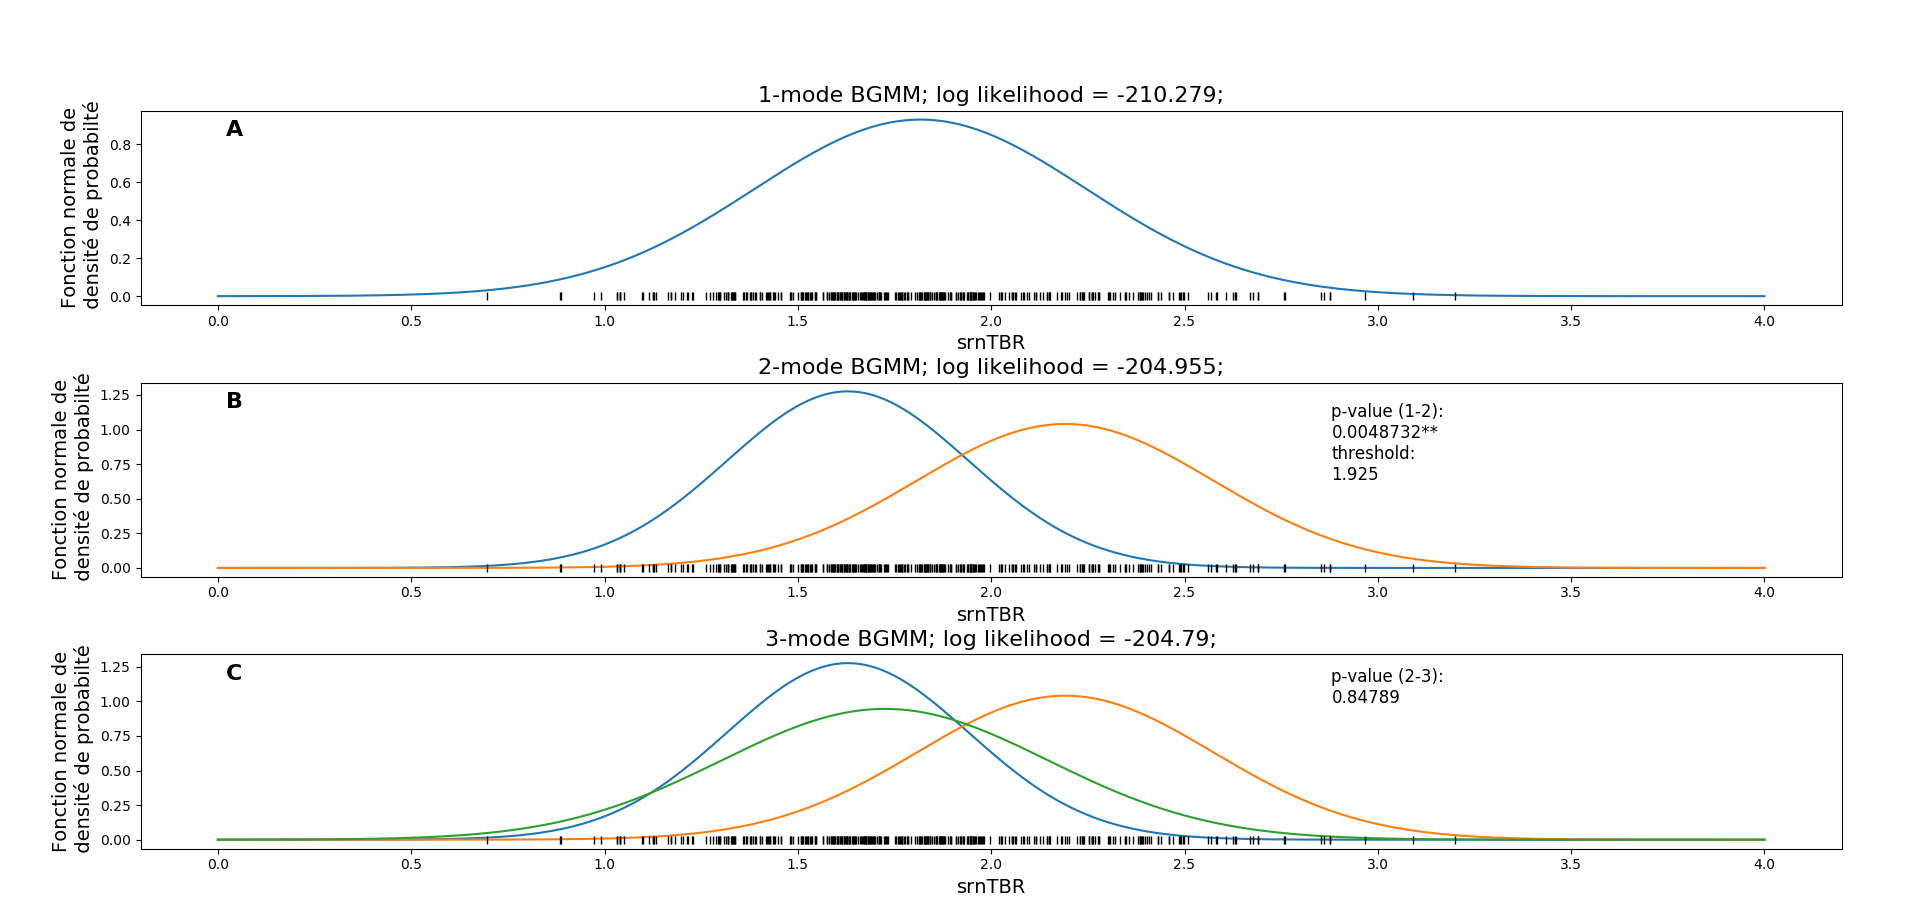
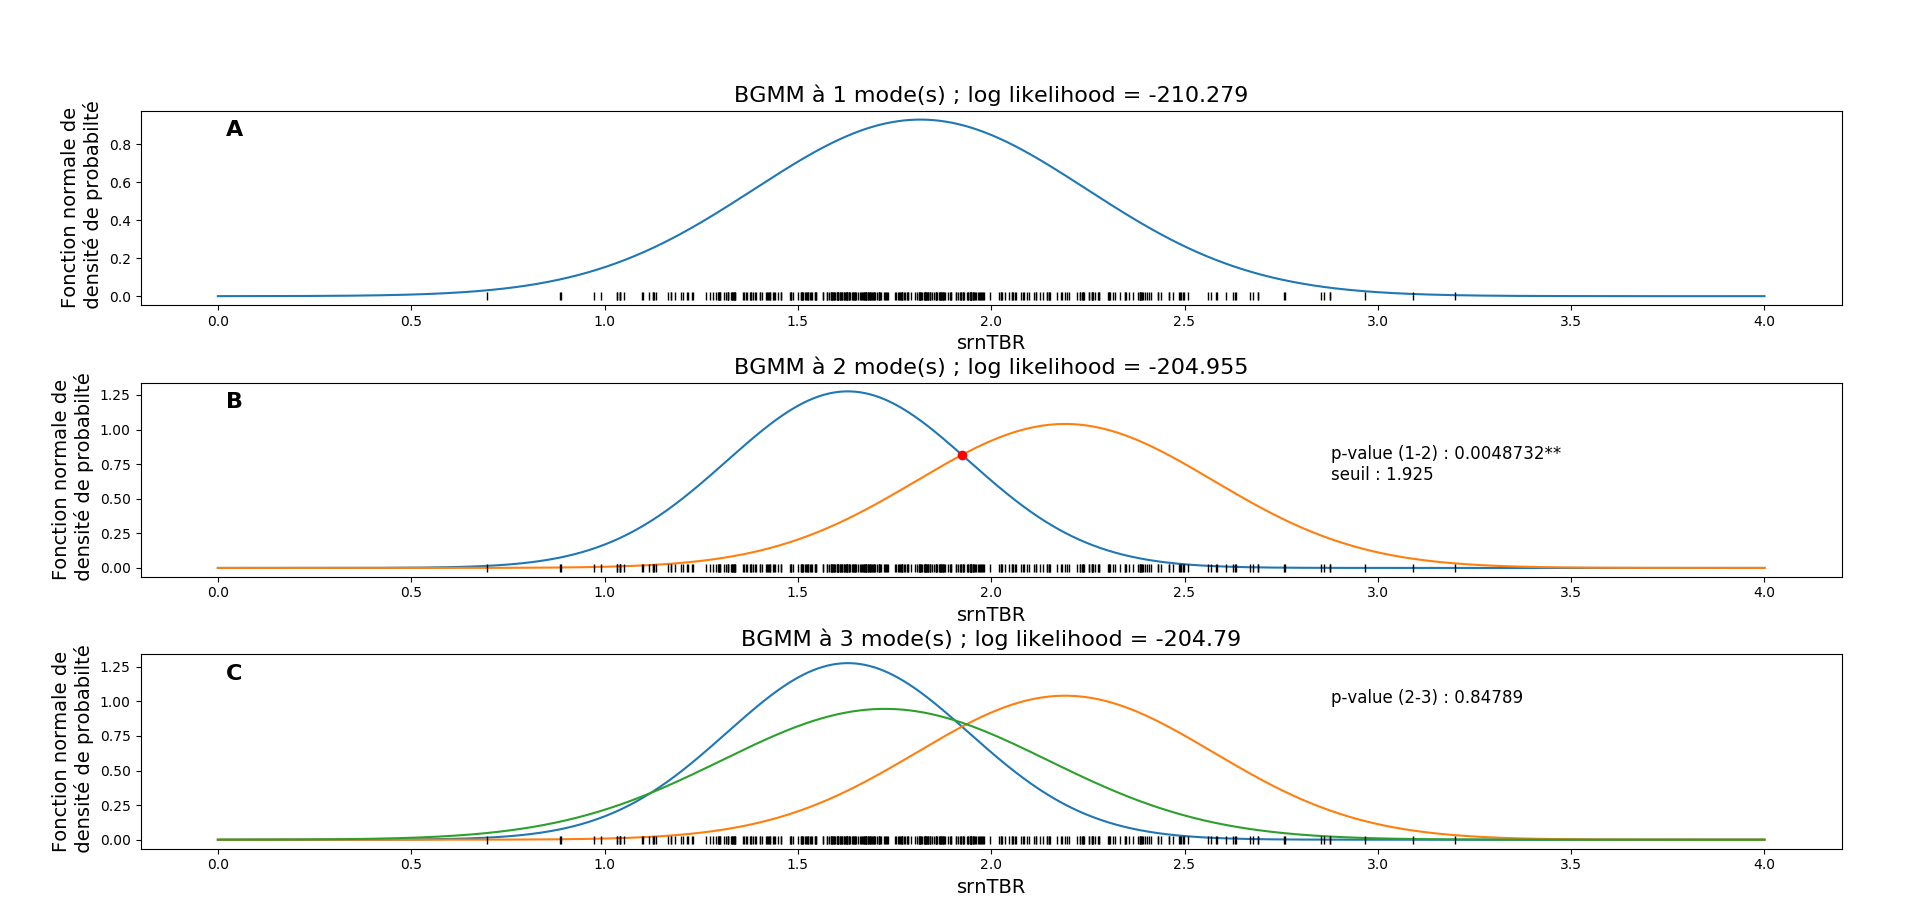
more details given in methods an beginning of results

diff --git a/chapter_4.tex b/chapter_4.tex
@@ -233,18 +233,18 @@ les densités \gls{dbscan}. Les analyses statistiques sont effectuées avec la b
 \subsubsection{Partitionnement basé sur les distributions : Bayesian Gaussian Mixture Model} 
 Un \textit{mixture model} est un modèle probabiliste qui permet d'identifier la présence de sous-populations dans une population.
 La distribution des \glspl{srntbr} est ainsi tracée et ajustée par un \gls{bgmm} \citep{Attias2000, Blei2006} puis par 
-un \gls{gmm}. Un \textit{Gaussian Mixture Model} est un modèle probabiliste qui suppose que toutes les observations proviennent d'un mélange 
+un \gls{gmm} pour comparaison. Un \textit{Gaussian Mixture Model} est un modèle qui suppose que toutes les observations proviennent d'un mélange 
 d'un nombre fini de distributions gaussiennes aux paramètres inconnus. 
 Le \gls{bgmm}, à la différence du \gls{gmm}, utilise des \textit{a priori} sur la distribution des données pour 
 assigner des probabilités \textit{a posteriori} à chaque \textit{Gaussian Mixture} distribution. Un grand nombre de \glspl{tbr} 
 extraits de sujets sains de la base de données \gls{cmi-hbn} est disponible, ces valeurs donc utilisées pour estimer les \textit{a priori} du \gls{bgmm}. 
 Lorsque les observations sont ajustées par un \gls{bgmm} ou un \gls{gmm}, un modèle gaussien constitué d'un nombre prédéfini de courbes gaussiennes est 
-créé pour modéliser les données. Les valeurs de \gls{srntbr} sont approximées par un \gls{bgmm} avec un nombre croissant de composantes. Il en va de même 
-pour l'utilisation du \gls{gmm}.
+créé pour modéliser les données. Ici, les valeurs de \gls{srntbr} sont approximées par un \gls{bgmm} avec un nombre de composantes allant de 1 à 3. 
+Il en va de même pour l'utilisation du \gls{gmm}.
 
 Afin de déterminer le nombre de composantes qui décrit le mieux la distribution des \gls{srntbr}, la significativité de la différence entre chaque 
-modèle est testée grâce à un test $\chi^2$ sur la déviance \citep{James2013}. La déviance est une mesure de la qualité de l'ajustement (\textit{goodness-of-fit} en anglais) 
-d'un modèle statistique et est définie comme suit :
+modèle est testée grâce à un test $\chi^2$ sur la déviance \citep{James2013}. La déviance est une mesure de la qualité de l'ajustement (\textit{goodness-of-fit} 
+en anglais) d'un modèle statistique et est définie comme suit :
 \begin{equation}
 \label{eq:tbr_deviance}
 \text{D} = -2(log(L(\beta_{0})) - log(L(\beta_{\alpha}))),
@@ -255,34 +255,43 @@ La multiplication par -2 est une étape nécessaire pour convertir la \textit{lo
 l'utilisation d'un test $\chi^2$ pour tester la significativité statistique. Le seuil de significativité est fixé à $\alpha = 0.01$.
 
 \subsubsection{Partitionnement basé sur les distances : méthode de Ward}
-La méthode de Ward fait partie des algorithmes de partitionnement hiérarchique \citep{Ward1963}. Cet algorithme est un type d'\textit{agglomerative clustering} 
-qui, de façon récursive, fusionne une paire de groupes en minimisant la variance de ces \textit{clusters}.
+La méthode de Ward fait partie des algorithmes de partitionnement hiérarchique \citep{Ward1963}. 
+Cet algorithme est un type d'\textit{agglomerative clustering} qui, de façon récursive, fusionne une paire de groupes 
+en minimisant la variance de ces \textit{clusters} jusqu'à obtenir un grand \textit{cluster} comprenant toutes les données.
 
-Afin de déterminer le nombre de \textit{clusters} à trouver par le \textit{clustering} de Ward, un dendogramme basé sur la distance de Ward est tracé. 
-Sur ce graphique, une fois que la plus longue distance (représentée par les traits verticaux) non coupée par une ligne horizontale est repérée, une ligne 
-horizontale est tracée de façon à couper cette ligne verticale. Le nombre de lignes verticales coupées par la ligne horizontale tout juste tracée correspond 
-au nombre optimal de groupes.
+Le nombre K de clusters estimé par Ward varie de 1 à 3 pour comparer les résultats obtenus à ceux du \gls{bgmm}. Les \textit{clusters}
+identifiés par la méthode Ward sont notamment représentés sur un dendrogramme où les traits verticaux correspondent à la distance de Ward entre 
+deux \textit{clusters} : plus ces traits sont grands, plus les clusters son différents
 
 \subsubsection{Partitionnement basé sur les densités : DBSCAN}
-\gls{dbscan} est un algorithme de partitionnement de données qui s'appuie sur la densité des \textit{clusters} estimés \citep{Ester1996}. Deux paramètres sont entrés dans l'algorithme :
-la distance $\epsilon$ et le nombre minimum de points $MinPts$ devant se trouver dans un rayon $\epsilon$ pour que ces points forment un \textit{cluster}. 
-Le choix du $MinPts$ peut se faire en suivant une une méthode heuristique :
+\gls{dbscan} est un algorithme de partitionnement de données qui s'appuie sur la densité des \textit{clusters} estimés \citep{Ester1996}. 
+Deux paramètres sont nécessaires pour permettre à l'algorithme de partitionner la donnée : la distance $\epsilon$ et le nombre minimum de points 
+$MinPts$ devant se trouver dans un rayon $\epsilon$ pour que ces points forment un \textit{cluster}. 
+Le choix du $MinPts$ peut se faire grâce une méthode heuristique :
 \begin{equation}
 \label{eq:tbr_dbscan}
 MinPts = ln(n),
 \end{equation}
 avec n le nombre total de points à être partitionnés.
 
-Une méthode pour déterminer la valeur $\epsilon$ optimale est de tracer le \textit{k-distance plot} obtenu par la méthode des k plus proches voisins 
-(\textit{K-nearest neighbors} en anglais) en prenant $k = MinPts$ \citep{James2013, Goldberger2005}. Etant donné que les points bruités 
-sont censés avoir une \textit{k-distance} bien plus élevée que celle des autres points, on peut s'attendre à observer un genou sur ce tracé : 
-alors l'ordonnée de ce point correspond à $\epsilon$.
+Une méthode pour déterminer la valeur $\epsilon$ optimale est de tracer le graphique des \textit{k-distance} obtenu par la méthode des k plus proches voisins 
+(\textit{K-nearest neighbors} en anglais) non supervisée en prenant $k = MinPts$ \citep{James2013, Goldberger2005}. Le principe de cette méthode
+est de trouver un nombre prédéfini d'observations, noté k, les plus proches en distance d'un nouveau point et de prédire la classe de ce dernier. 
+Le grahique des \textit{k-distance} représente les distances de chaque observation à un des k points classées par ordre décroissant. 
+Ainsi, les points bruités sont censés avoir une \textit{k-distance} bien plus élevée que celle des autres points, on peut 
+s'attendre à observer un genou sur ce tracé : l'ordonnée de ce point correspond à $\epsilon$.
+
 
 \subsection{Identification du seuil optimal pour la personnalisation du protocole de Neurofeedback}
+
 Si le \gls{bgmm} à deux composantes est identifié comme offrant le meilleur ajustement du modèle, la distribution théorique de chaque composant 
-est utilisée pour en déduire la valeur du seuil conduisant à la meilleure discrimination entre les deux \textit{clusters}. De plus, une courbe \gls{roc} 
-est aussi tracée à partir du \gls{bgmm} à deux composantes pour calculer le taux de faux positifs (\gls{fpr} en anglais) et de vrais positifs 
-(\gls{tpr} en anglais) \citep{James2013} :
+est utilisée pour en déduire la valeur du seuil conduisant à la meilleure discrimination entre les deux \textit{clusters}. Ce seuil correspond
+à l'abscisse $x$ de l'intersection des deux gaussiennes. Pour déterminer $x$ il suffit de traduire mathématiquement les deux gaussiennes ce qui
+conduit à une équation quadratique dont les coefficients comportent les moyennes et variances des gaussiennes. La solution de cette équation est $x$.
+
+
+Une courbe \gls{roc} est ensuite tracée à partir du \gls{bgmm} à deux composantes : en abscisses figurent le taux de faux positifs (\gls{fpr} en anglais) 
+et en ordonnées celui de vrais positifs (\gls{tpr} en anglais) \citep{James2013} :
 
 \begin{equation}
 \label{eq:tbr_fpr_tpr}
@@ -297,10 +306,16 @@ où FP est le nombre de vrais positifs, TN le nombre de vrais négatifs, TP le n
 De plus, FP $+$ TN correspond au nombre total de négatifs, et TP $+$ FN au nombre total de positifs. 
 
 Les courbes \gls{roc} sont fréquemment utilisées pour mesurer la performance de partionnements binaires, notamment grâce à
-l'\gls{auc} : plus cette aire est grande, plus la courbe \gls{roc} s'éloigne du partionnement aléatoire.
+l'\gls{auc} : plus cette aire est grande, plus la courbe \gls{roc} s'éloigne du partionnement aléatoire. Une autre métrique est utilsée 
+pour juger de la fiabilité des partionnements utilisés ici, il s'agit de la justesse (\textit{accuracy} en anglais) :
 
-Si le \gls{gmm}, la méthode de Ward et le \gls{dbscan} identifient également deux \textit{clusters}, le seuil de discrimination obtenu par ces approches
-est comparé à celui trouvé pour le \gls{bgmm} à deux composantes.
+\begin{equation}
+\label{eq:tbr_accuracy}
+\text{accuracy} = \frac{\text{TP + TN}}{\text{TP + TN + FP + FN}}.
+\end{equation}
+
+Les seuils identifiés pour la discrimination de deux groupes par le \gls{gmm}, la méthode de Ward et le \gls{dbscan} sont comparés à celui trouvé pour 
+le \gls{bgmm} à deux composantes.
 
 Enfin, les seuils de \gls{tbr} calculés dans cette étude sont également comparés à ceux utilisés dans la littérature. Les seuils de 5 et de 4.5 sont
 ajoutés à la courbe \gls{roc} car \citet{Kerson2013} ont suggéré l'utilsation d'un seuil de \gls{tbr} à 5, même si leur étude clinique l'a fixé 
@@ -317,33 +332,44 @@ Les différentes méthodes décrites précédemment sont appliquées tour à tou
 
 \subsubsection{Bayesian Gaussian Mixture Model}
 
-Les résultats des \gls{bgmm} avec un nombre croissant de composantes sont représentés à la Figure~\ref{Figure:tbr_bgmm}. 
+Les résultats des \gls{bgmm} avec un nombre de composantes allant de 1 à 3 sont représentés à la Figure~\ref{Figure:tbr_bgmm}. 
 
 \begin{figure}[h!]
   \centering
 	\includegraphics[width=1.0\linewidth]{figures/chapter-4/tbr-bgmm} 
   \caption{Tracés des distributions de \gls{srntbr} (\textit{rug plot}) avec \textbf{A)} 1-mode, \textbf{B)} 2-modes et \textbf{C)} 3-modes du \gls{bgmm} superposés. P-value (1-2) correspond
 	à la p-value du test de déviance comparant les 1-mode et 2-modes du \gls{bgmm} ; p-value (2-3) correspond à la p-value du test de déviance comparant les 2-modes et 3-modes du \gls{bgmm}. 
-	Significativité symbolisée par ** (seuil fixé à 0.01). Le seuil \gls{srntbr} est précisé pour le modèle .
-  \label{Figure:tbr_bgmm}
+	Significativité symbolisée par ** (seuil fixé à 0.01). Le seuil \gls{srntbr} est précisé pour le modèle à 2 composantes et représenté par un cercle rouge.}
+  \label{Figure:tbr_bgmm} 
 \end{figure}
 
 Une différence statistiquement significative est observée dans la modélisation des distributions entre les modes à 1 (modèle nul) et à 2 composantes 
 du \gls{bgmm} (p-value = 0.005), alors qu'aucune différence statistiquement significative n'est observée entre les modes à 2 (modèle nul) 
 et à 3 composantes du \gls{bgmm} (p-value = 0.850). On peut donc en conclure que le \gls{bgmm} à deux modes décrit mieux la donnée que les deux
-autre modes. 
+autres modes. 
 
-Le \gls{gmm} arrive à la même conclusion : la distribution des \gls{srntbr} est mieux ajustées par deux modes (p-value pour la comparaison
+Le \gls{gmm} arrive à la même conclusion : la distribution des \gls{srntbr} semble bimodale (p-value pour la comparaison
 entre le modèle à 1 mode (modèle nul) et à 2 modes = 0.002). Ainsi, les \textit{a priori} utilisés pour le \gls{bgmm} semblent bien 
 représenter la donnée. 
 
-
 \subsubsection{Méthode de Ward}
+Tout d'abord, les résultats d'un partitionnement suivant la méthode de Ward sont représentés sur un dendrogramme Figure~\ref{Figure:tbr_ward_dendrogram} :
+
+\begin{figure}[h!]
+  \centering
+	\includegraphics[width=1.0\linewidth]{figures/chapter-4/tbr-dendrogram-ward} 
+  \caption{Dendrogramme représentant le partitionnement obtenu suivant la méthode de Ward. Tous les liens connectant des noeuds avec des distances plus 
+	grandes ou égales à un seuil fixé à 6 sont colorés en bleu. Les deux clusters définis par les deux noeuds en dessous de ce seuil de 6 sont colorés différemment.}
+  \label{Figure:tbr_bgmm}
+\end{figure}
+
+Visuellement, la Figure~\ref{Figure:tbr_ward_dendrogram} permet de supposer que les données pourraient \textit{clusters} (en rouge et vert) e
 
 \subsubsection{DBSCAN}
 
 \subsection{Seuils identifiés}
-% expliquer qu'on met le seuil au carré faire une ref aux figures où le seuil est écrit. 
+% expliquer qu'on met le seuil au carré faire une ref aux figures où le seuil est écrit. Rajouter sur la figure des plots glmm l'intersection
+% qui correspond au seuil
 Le seuil qui sépare le plus précisément les deux \textit{clusters} du \gls{bgmm} à deux composantes est de 1.925 pour les valeurs \gls{srntbr},
 ce qui correspond pour les valeurs \gls{tbr} à un seuil de 3.7.
 
